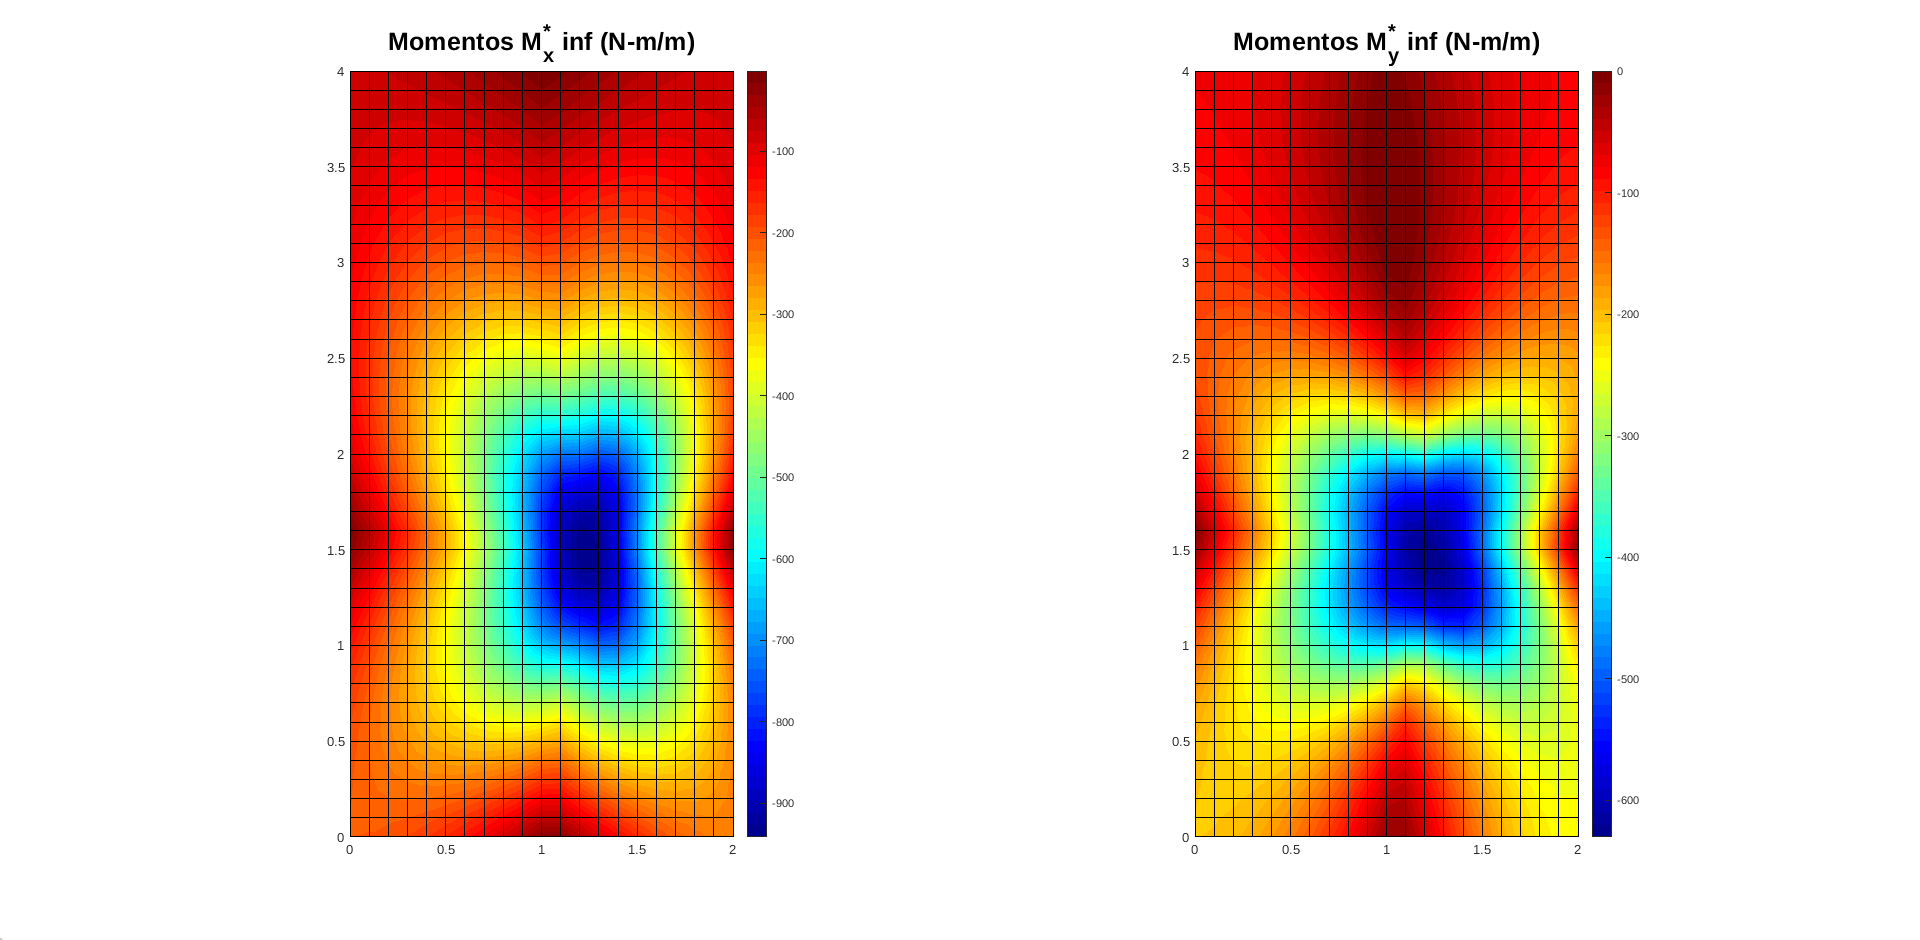
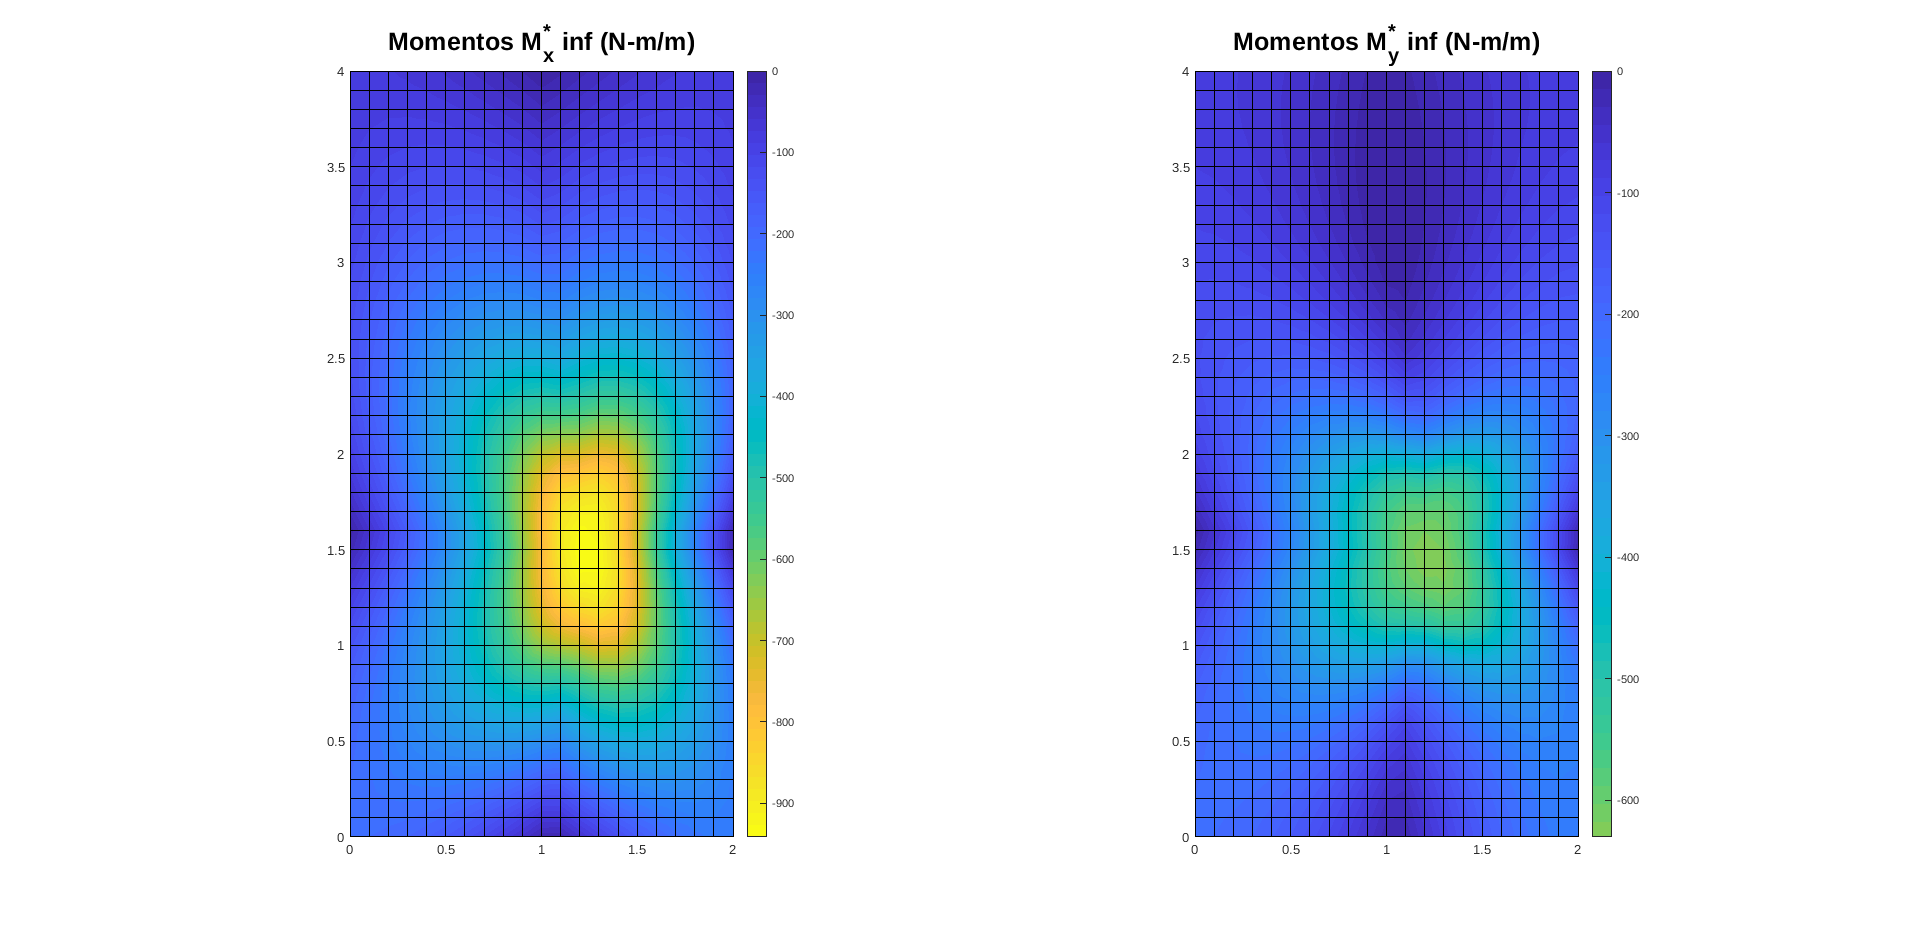
Usando la misma escala de color en Wood y Armer

diff --git a/codigo/losas/Kirchhoff_Love/EF_MZC/EF_MZC.m b/codigo/losas/Kirchhoff_Love/EF_MZC/EF_MZC.m
@@ -300,13 +300,32 @@ plot_M_or_Q(nef, xnod, LaG, Q_max, 'Q_{max} (N/m)', { ang })
 
 %% Se calculan los momentos de disenio de Wood y Armer
 [Mxast_sup, Myast_sup, Mxast_inf, Myast_inf] = arrayfun(@WoodArmer, Mx, My, Mxy);
+Mmax = max(abs([Mxast_sup; Myast_sup; Mxast_inf; Myast_inf]));
+
+% se graficaran los momentos de disenio utilizando la misma escala de
+% colores en valor absoluto, de este modo Mxast_sup=+100 y Mxast_inf=-100 
+% tendran el mismo color
 figure
 subplot(1,2,1); plot_M_or_Q(nef, xnod, LaG, Mxast_sup,  'Momentos M_x^* sup (N-m/m)');
+caxis([0 Mmax]);                                % misma escala de colores
+colorbar('ylim', [0 max(Mxast_sup)]);           % rango de colores a mostrar
+colormap parula
 subplot(1,2,2); plot_M_or_Q(nef, xnod, LaG, Myast_sup,  'Momentos M_y^* sup (N-m/m)');
+caxis([0 Mmax]);                                % misma escala de colores
+colorbar('ylim', [0 max(Myast_sup)]);           % rango de colores a mostrar
+colormap parula
 
 figure
 subplot(1,2,1); plot_M_or_Q(nef, xnod, LaG, Mxast_inf,  'Momentos M_x^* inf (N-m/m)');
+colormap parula
+caxis([-Mmax 0]);                               % misma escala de colores
+oldcmap = colormap; colormap(flipud(oldcmap));  % invierto mapa de colores
+colorbar('ylim', [min(Mxast_inf) 0]);           % rango de colores a mostrar
 subplot(1,2,2); plot_M_or_Q(nef, xnod, LaG, Myast_inf,  'Momentos M_y^* inf (N-m/m)');
+colormap parula
+caxis([-Mmax 0]);                               % misma escala de colores
+oldcmap = colormap; colormap(flipud(oldcmap));  % invierto mapa de colores
+colorbar('ylim', [min(Myast_inf) 0]);           % rango de colores a mostrar
 
 %% Finalmente comparamos los desplazamientos calculados con el MEF y la
 %% solucion analitica
